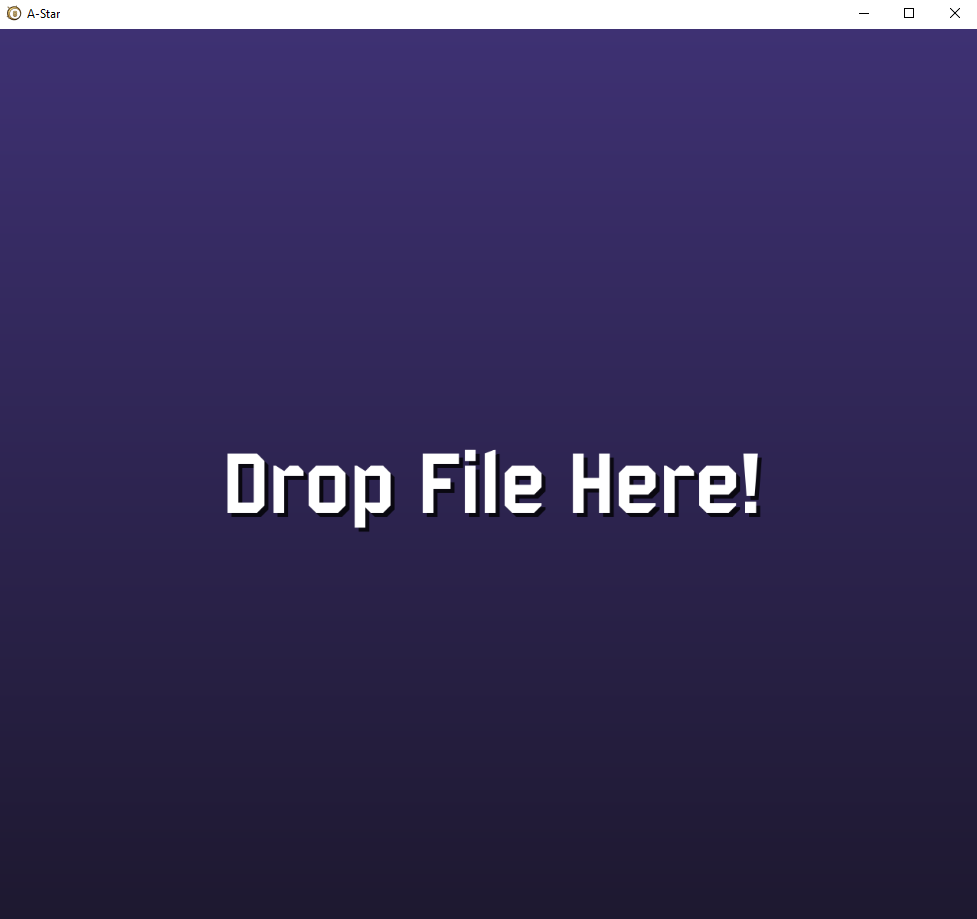
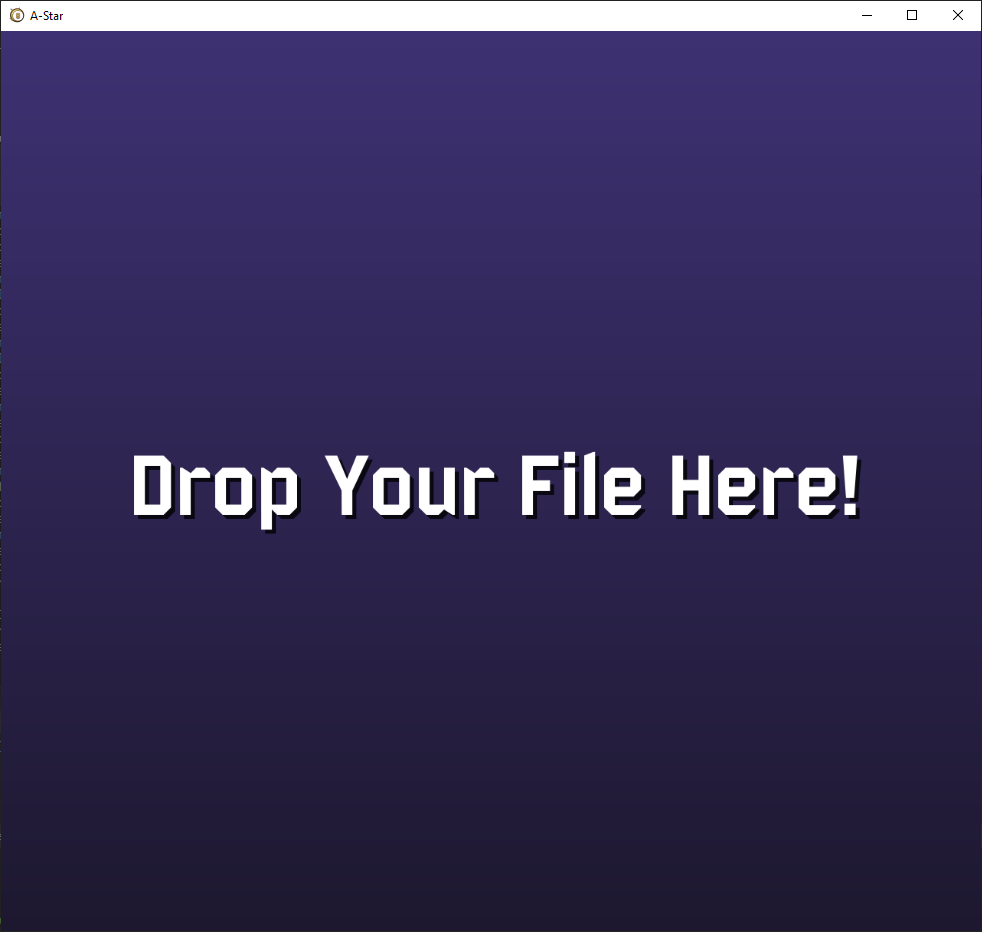
Survivors now ordered by eclipse level

diff --git a/src/main.cpp b/src/main.cpp
@@ -179,6 +179,47 @@ UInt read_file(const std::string& file_path, std::string& xml_file) {
     return FILE_OPENED_SUCCESSFULLY;
 }
 
+//order_and_correct_survivor_list(survivors, survivors_ordered, eclipse_level_sum, mastery_level);
+
+struct Entity_Index {
+    UInt index;
+    UInt e_level;
+};
+
+std::vector<Entity_Index> survivors_ordered_by_eclipse_level(std::vector<std::pair<std::string, UInt>>& survivors_ordered, std::vector<std::pair<std::string, UInt>>& survivors_descending_order) {
+    survivors_descending_order.clear();
+
+    std::vector<Entity_Index> entity_index{};
+    for (size_t i = 0; i < survivors_ordered.size(); i++) {
+        entity_index.emplace_back((Entity_Index){(UInt)i, survivors_ordered[i].second});
+    }
+
+    size_t index = 0;
+    size_t is_list_sorted = 0;
+    while (1) {
+        if (is_list_sorted == entity_index.size()-1) break;
+
+        if (index >= entity_index.size()-1) {
+            is_list_sorted = 0;
+            index = 0;
+        }
+
+        if (entity_index[index].e_level < entity_index[index+1].e_level) {
+            auto temp_entity = entity_index[index+1];
+            entity_index[index+1] = entity_index[index];
+            entity_index[index] = temp_entity;
+        } else {
+            is_list_sorted++;
+        }
+
+        index++;
+    }
+
+    for (size_t i = 0; i < survivors_ordered.size(); i++) survivors_descending_order.emplace_back(survivors_ordered[entity_index[i].index]);
+
+    return entity_index;
+}
+
 int main() {
     int width = 980, height = 900;
     InitWindow(width, height, "A-Star");
@@ -245,9 +286,7 @@ int main() {
             std::cout << "Could not open file!\n";
             state = LOADING_STATE;
             xml_file = "";
-    } else if (read_file_state == FILE_OPENED_SUCCESSFULLY) {
-        state = LOADING_STATE;
-    }
+    } else if (read_file_state == FILE_OPENED_SUCCESSFULLY) state = LOADING_STATE;
 
     // MainState Setup -------------------------------- //
     std::vector<std::pair<std::string, UInt>> survivors_ordered{ {}, {}, {}, {}, {}, {}, {}, {}, {}, {}, {}, {}, {}, {}, {}, {}, {}, {}, };
@@ -276,9 +315,16 @@ int main() {
     float acceleration = 800.f;
     float velocity = 0.f;
     float max_velocity = 60.f;
-    float friction = 230.f;
+    float friction = 220.f;
     int direction = 0.f;
     // MainState Setup -------------------------------- //
+
+    std::vector<std::pair<std::string, UInt>> survivors_descending_order;
+    std::vector<Entity_Index> entity_index{};
+    Vector2 survivors_image_pos[] = {
+        { 0.f, 0.f }, { 256.f, 0.f, }, { 512.f, 0.f, }, { 768.f, 0.f, }, { 1024.f, 0.f, }, { 1280.f, 0.f, }, { 1536.f, 0.f, },
+        { 0.f, 256.f }, { 128.f, 256.f }, { 256.f, 256.f }, { 384.f, 256.f }, { 512.f, 256.f }, { 640.f, 256.f }, { 768.f, 256.f }, { 896.f, 256.f }, { 1024.f, 256.f }, { 1152.f, 256.f }, { 1280.f, 256.f }, 
+    };
 
     SetTargetFPS(60);
     while (!WindowShouldClose()) {
@@ -288,8 +334,7 @@ int main() {
         BeginDrawing();
         ClearBackground(BLACK);
 
-        // TODO: Find better colors;
-        Color color1 = { 62, 49, 115, 255 }; //{ 32, 25, 59, 255 };
+        Color color1 = { 62, 49, 115, 255 };
         Color color2 = { 29, 24, 47, 255 };
         DrawRectangleGradientV(0, 0, width, height, color1, color2);
 
@@ -342,7 +387,7 @@ int main() {
                 UnloadDroppedFiles(files);
             }
 
-            std::string drop_file_here_text = "Drop File Here!";
+            std::string drop_file_here_text = "Drop Your File Here!";
             float drop_file_here_fontsize = width*0.1f;
             Vector2 drop_file_here_text_size = MeasureTextEx(bombardier, drop_file_here_text.c_str(), drop_file_here_fontsize, 0.f);
 
@@ -381,6 +426,7 @@ int main() {
                 continue;
             } else if (eclipse_info_xml_file_state == FILE_OPENED_SUCCESSFULLY) {
                 order_and_correct_survivor_list(survivors, survivors_ordered, eclipse_level_sum, mastery_level);
+                entity_index = survivors_ordered_by_eclipse_level(survivors_ordered, survivors_descending_order);
 
                 if (mouse_wheel.y != 0) {
                     velocity += acceleration * GetFrameTime();
@@ -408,149 +454,150 @@ int main() {
                     } else if (eclipse_info_xml_file_state == FILE_OPENED_SUCCESSFULLY) {
                         eclipse_level_sum = 0;
                         mastery_level = 0;
+
                         order_and_correct_survivor_list(survivors, survivors_ordered, eclipse_level_sum, mastery_level);
+                        entity_index = survivors_ordered_by_eclipse_level(survivors_ordered, survivors_descending_order);
                     }
                 } 
 
                 std::vector<Eclipse_Level_Collsion_Entity> eclipse_level_collision_entities = {};
 
                 BeginMode2D(camera);
-                size_t survivor_index = {0};
-                for (size_t y = 0; y < 2; y++) {
-                    UInt number_of_images = y < 1 ? 7 : 11; // NOTE: Based on the number of survivors in each row in the survivors.png
-                    for (size_t x = 0; x < number_of_images; x++, survivor_index++) {
-                        // TODO: Make the survivors wrap around, make 2 columns.
+                for (size_t index = 0; index < survivors_descending_order.size(); index++) {
+                    // Template ---------------------------------------- //
+                    Rectangle template_source = {
+                        .x = 0.f,
+                        .y = 0.f,
+                        .width  = (float)template_texture.width,
+                        .height = (float)template_texture.height,
+                    };
 
-                        // Template ---------------------------------------- //
-                        Rectangle template_source = {
-                            .x = 0.f,
-                            .y = 0.f,
-                            .width  = (float)template_texture.width,
-                            .height = (float)template_texture.height,
-                        };
+                    Vector2 template_size = {
+                        .x = width * 0.85f,
+                        .y = template_size.x*0.2f,
+                    };
 
-                        Vector2 template_size = {
-                            .x = width * 0.85f,
-                            .y = template_size.x*0.2f,
-                        };
+                    float padding_between_templates = template_size.y * 0.12f;
+                    float template_centered_x = width/2.f - template_size.x/2.f;
 
-                        float padding_between_templates = template_size.y * 0.12f;
-                        float template_centered_x = width/2.f - template_size.x/2.f;
+                    Rectangle template_dest = {
+                        .x = template_centered_x,
+                        .y = (index * (template_size.y + padding_between_templates)) + padding_between_templates,
+                        .width  = template_size.x,
+                        .height = template_size.y,
+                    };
 
-                        Rectangle template_dest = {
-                            .x = template_centered_x,
-                            .y = (survivor_index * (template_size.y + padding_between_templates)) + padding_between_templates,
-                            .width  = template_size.x,
-                            .height = template_size.y,
-                        };
+                    DrawTexturePro(template_texture, 
+                            template_source, 
+                            template_dest, 
+                            { 0.f, 0.f}, 
+                            0.f, 
+                            WHITE);
 
-                        DrawTexturePro(template_texture, 
-                                template_source, 
-                                template_dest, 
-                                { 0.f, 0.f}, 
-                                0.f, 
-                                WHITE);
+                    // NOTE: Collecting information about the size of every survivor template.
+                    template_complete_boundary = {
+                        .x = template_dest.x,
+                        .y = 0.f,
+                        .width = template_dest.width,
+                        .height = template_dest.height + padding_between_templates,
+                    };
+                    // Template ---------------------------------------- //
 
-                        // NOTE: Collecting information about the size of every survivor template.
-                        template_complete_boundary = {
-                            .x = template_dest.x,
-                            .y = 0.f,
-                            .width = template_dest.width,
-                            .height = template_dest.height + padding_between_templates,
-                        };
-                        // Template ---------------------------------------- //
-
-                        // NOTE: This is the scale between the final template image size and the original template image size.
-                        Vector2 scale = {
-                            template_texture.width  / template_dest.width,
-                            template_texture.height / template_dest.height,
-                        };
+                    // NOTE: This is the scale between the final template image size and the original template image size.
+                    Vector2 scale = {
+                        template_texture.width  / template_dest.width,
+                        template_texture.height / template_dest.height,
+                    };
                        
-                        // Survivor ---------------------------------------- //
-                        float tile_size = number_of_images == 7 ? 256.f : 128.f;
-                        Rectangle survivor_source = {
-                            .x = x * tile_size,
-                            .y = number_of_images == 7 ? 0.f : 256.f,
-                            .width  = tile_size,
-                            .height = tile_size,
+                    // Survivor ---------------------------------------- //
+                    float tile_size = entity_index[index].index < 7 ? 256.f : 128.f;
+
+                    Vector2 survivor_pos = survivors_image_pos[entity_index[index].index];
+                    
+                    Rectangle survivor_source = {
+                        .x = survivor_pos.x,
+                        .y = survivor_pos.y,
+                        .width  = tile_size,
+                        .height = tile_size,
+                    };
+
+                    Vector2 final_survivor_image_size = { 
+                        451.f / scale.x,
+                        437.f / scale.y
+                    };
+
+                    Rectangle survivor_dest = { 
+                        template_dest.x+(91.f / scale.x),
+                        template_dest.y+(77.f / scale.y),
+                        final_survivor_image_size.x,
+                        final_survivor_image_size.y 
+                    };
+
+                    DrawTexturePro(survivors_texture, 
+                            survivor_source,
+                            survivor_dest,
+                            { 0.f, 0.f}, 
+                            0.f, 
+                            WHITE);
+
+                    // Survivor ---------------------------------------- //
+
+                    // Survivor name ----------------------------------- //
+                    std::string survivor_name = survivors_descending_order[index].first;
+
+                    Rectangle final_text = {
+                        600.f / scale.x + template_dest.x,
+                        100.f / scale.y + template_dest.y,
+                        (float)survivor_dest.height*0.3f,
+                        0.f,
+                    };
+
+                    // NOTE: Text plus Long Shadows
+                    for (size_t i = 2; i > 0; i--) {
+                        DrawTextEx(bombardier, 
+                                survivor_name.c_str(),
+                                { final_text.x+(i*3.f), final_text.y+(i*3.f) }, 
+                                final_text.width, 
+                                1.f, 
+                                i < 2 ? WHITE : (Color){0,0,0,200});
+                    }
+                    // Survivor name ----------------------------------- //
+
+                    // Eclipse level ----------------------------------- //
+                    UInt eclipse_level = survivors_descending_order[index].second;
+                    for (size_t i = 0; i < eclipse_level; i++) {
+                        float eclipse_image_size = 128.f;
+
+                        Rectangle eclipse_source = {
+                            .x = i * eclipse_image_size,
+                            .y = i < mastery_level ? eclipse_image_size : 0.f,
+                            .width  = eclipse_image_size,
+                            .height = eclipse_image_size,
                         };
 
-                        Vector2 final_survivor_image_size = { 
-                            451.f / scale.x,
-                            437.f / scale.y
+                        Vector2 final_eclipse_image_size = {
+                            200 / scale.x,
+                            211 / scale.y,                    
                         };
 
-                        Rectangle survivor_dest = { 
-                            template_dest.x+(91.f / scale.x),
-                            template_dest.y+(77.f / scale.y),
-                            final_survivor_image_size.x,
-                            final_survivor_image_size.y 
+                        float eclipse_padding = 61.f / scale.x;
+                        Rectangle eclipse_dest = {
+                            .x = (616.f / scale.x) + ((final_eclipse_image_size.x + eclipse_padding) * i) + template_dest.x,
+                            .y = 295.f / scale.y + template_dest.y,
+                            .width  = final_eclipse_image_size.x,
+                            .height = final_eclipse_image_size.y 
                         };
 
-                        DrawTexturePro(survivors_texture, 
-                                survivor_source,
-                                survivor_dest,
+                        DrawTexturePro(eclipse_texture, 
+                                eclipse_source,
+                                eclipse_dest,
                                 { 0.f, 0.f}, 
                                 0.f, 
                                 WHITE);
-                        // Survivor ---------------------------------------- //
 
-                        // Survivor name ----------------------------------- //
-                        std::string survivor_name = survivors_ordered[survivor_index].first;
-
-                        Rectangle final_text = {
-                            600.f / scale.x + template_dest.x,
-                            100.f / scale.y + template_dest.y,
-                            (float)survivor_dest.height*0.3f,
-                            0.f,
-                        };
-
-                        // NOTE: Text plus Long Shadows
-                        for (size_t i = 2; i > 0; i--) 
-                            DrawTextEx(bombardier, 
-                                    survivor_name.c_str(),
-                                    { final_text.x+(i*3.f), final_text.y+(i*3.f) }, 
-                                    final_text.width, 
-                                    1.f, 
-                                    i < 2 ? WHITE : (Color){0,0,0,200});
-                        // Survivor name ----------------------------------- //
-
-                        // Eclipse level ----------------------------------- //
-                        UInt eclipse_level = survivors_ordered[survivor_index].second;
-                        for (size_t i = 0; i < eclipse_level; i++) {
-                            float eclipse_image_size = 128.f;
-
-                            Rectangle eclipse_source = {
-                                .x = i * eclipse_image_size,
-                                .y = i < mastery_level ? eclipse_image_size : 0.f,
-                                .width  = eclipse_image_size,
-                                .height = eclipse_image_size,
-                            };
-
-                            Vector2 final_eclipse_image_size = {
-                                200 / scale.x,
-                                211 / scale.y,                    
-                            };
-
-                            float eclipse_padding = 61.f / scale.x;
-                            Rectangle eclipse_dest = {
-                                .x = (616.f / scale.x) + ((final_eclipse_image_size.x + eclipse_padding) * i) + template_dest.x,
-                                .y = 295.f / scale.y + template_dest.y,
-                                .width  = final_eclipse_image_size.x,
-                                .height = final_eclipse_image_size.y 
-                            };
-
-                            DrawTexturePro(eclipse_texture, 
-                                    eclipse_source,
-                                    eclipse_dest,
-                                    { 0.f, 0.f}, 
-                                    0.f, 
-                                    WHITE);
-
-                            eclipse_level_collision_entities.emplace_back((Eclipse_Level_Collsion_Entity){eclipse_dest, (UInt)i});
-                        }
-                        // Eclipse level ----------------------------------- //
+                        eclipse_level_collision_entities.emplace_back((Eclipse_Level_Collsion_Entity){eclipse_dest, (UInt)i});
                     }
+                    // Eclipse level ----------------------------------- //
                 }
 
                 // Modifers ------------------------------------ //
@@ -792,6 +839,7 @@ int main() {
                             mastery_level = 0;
                             time_until_next_update = cooldown_time_for_reloading;
                             order_and_correct_survivor_list(survivors, survivors_ordered, eclipse_level_sum, mastery_level);
+                            entity_index = survivors_ordered_by_eclipse_level(survivors_ordered, survivors_descending_order);
 
                             reloaded = 1;
                         }